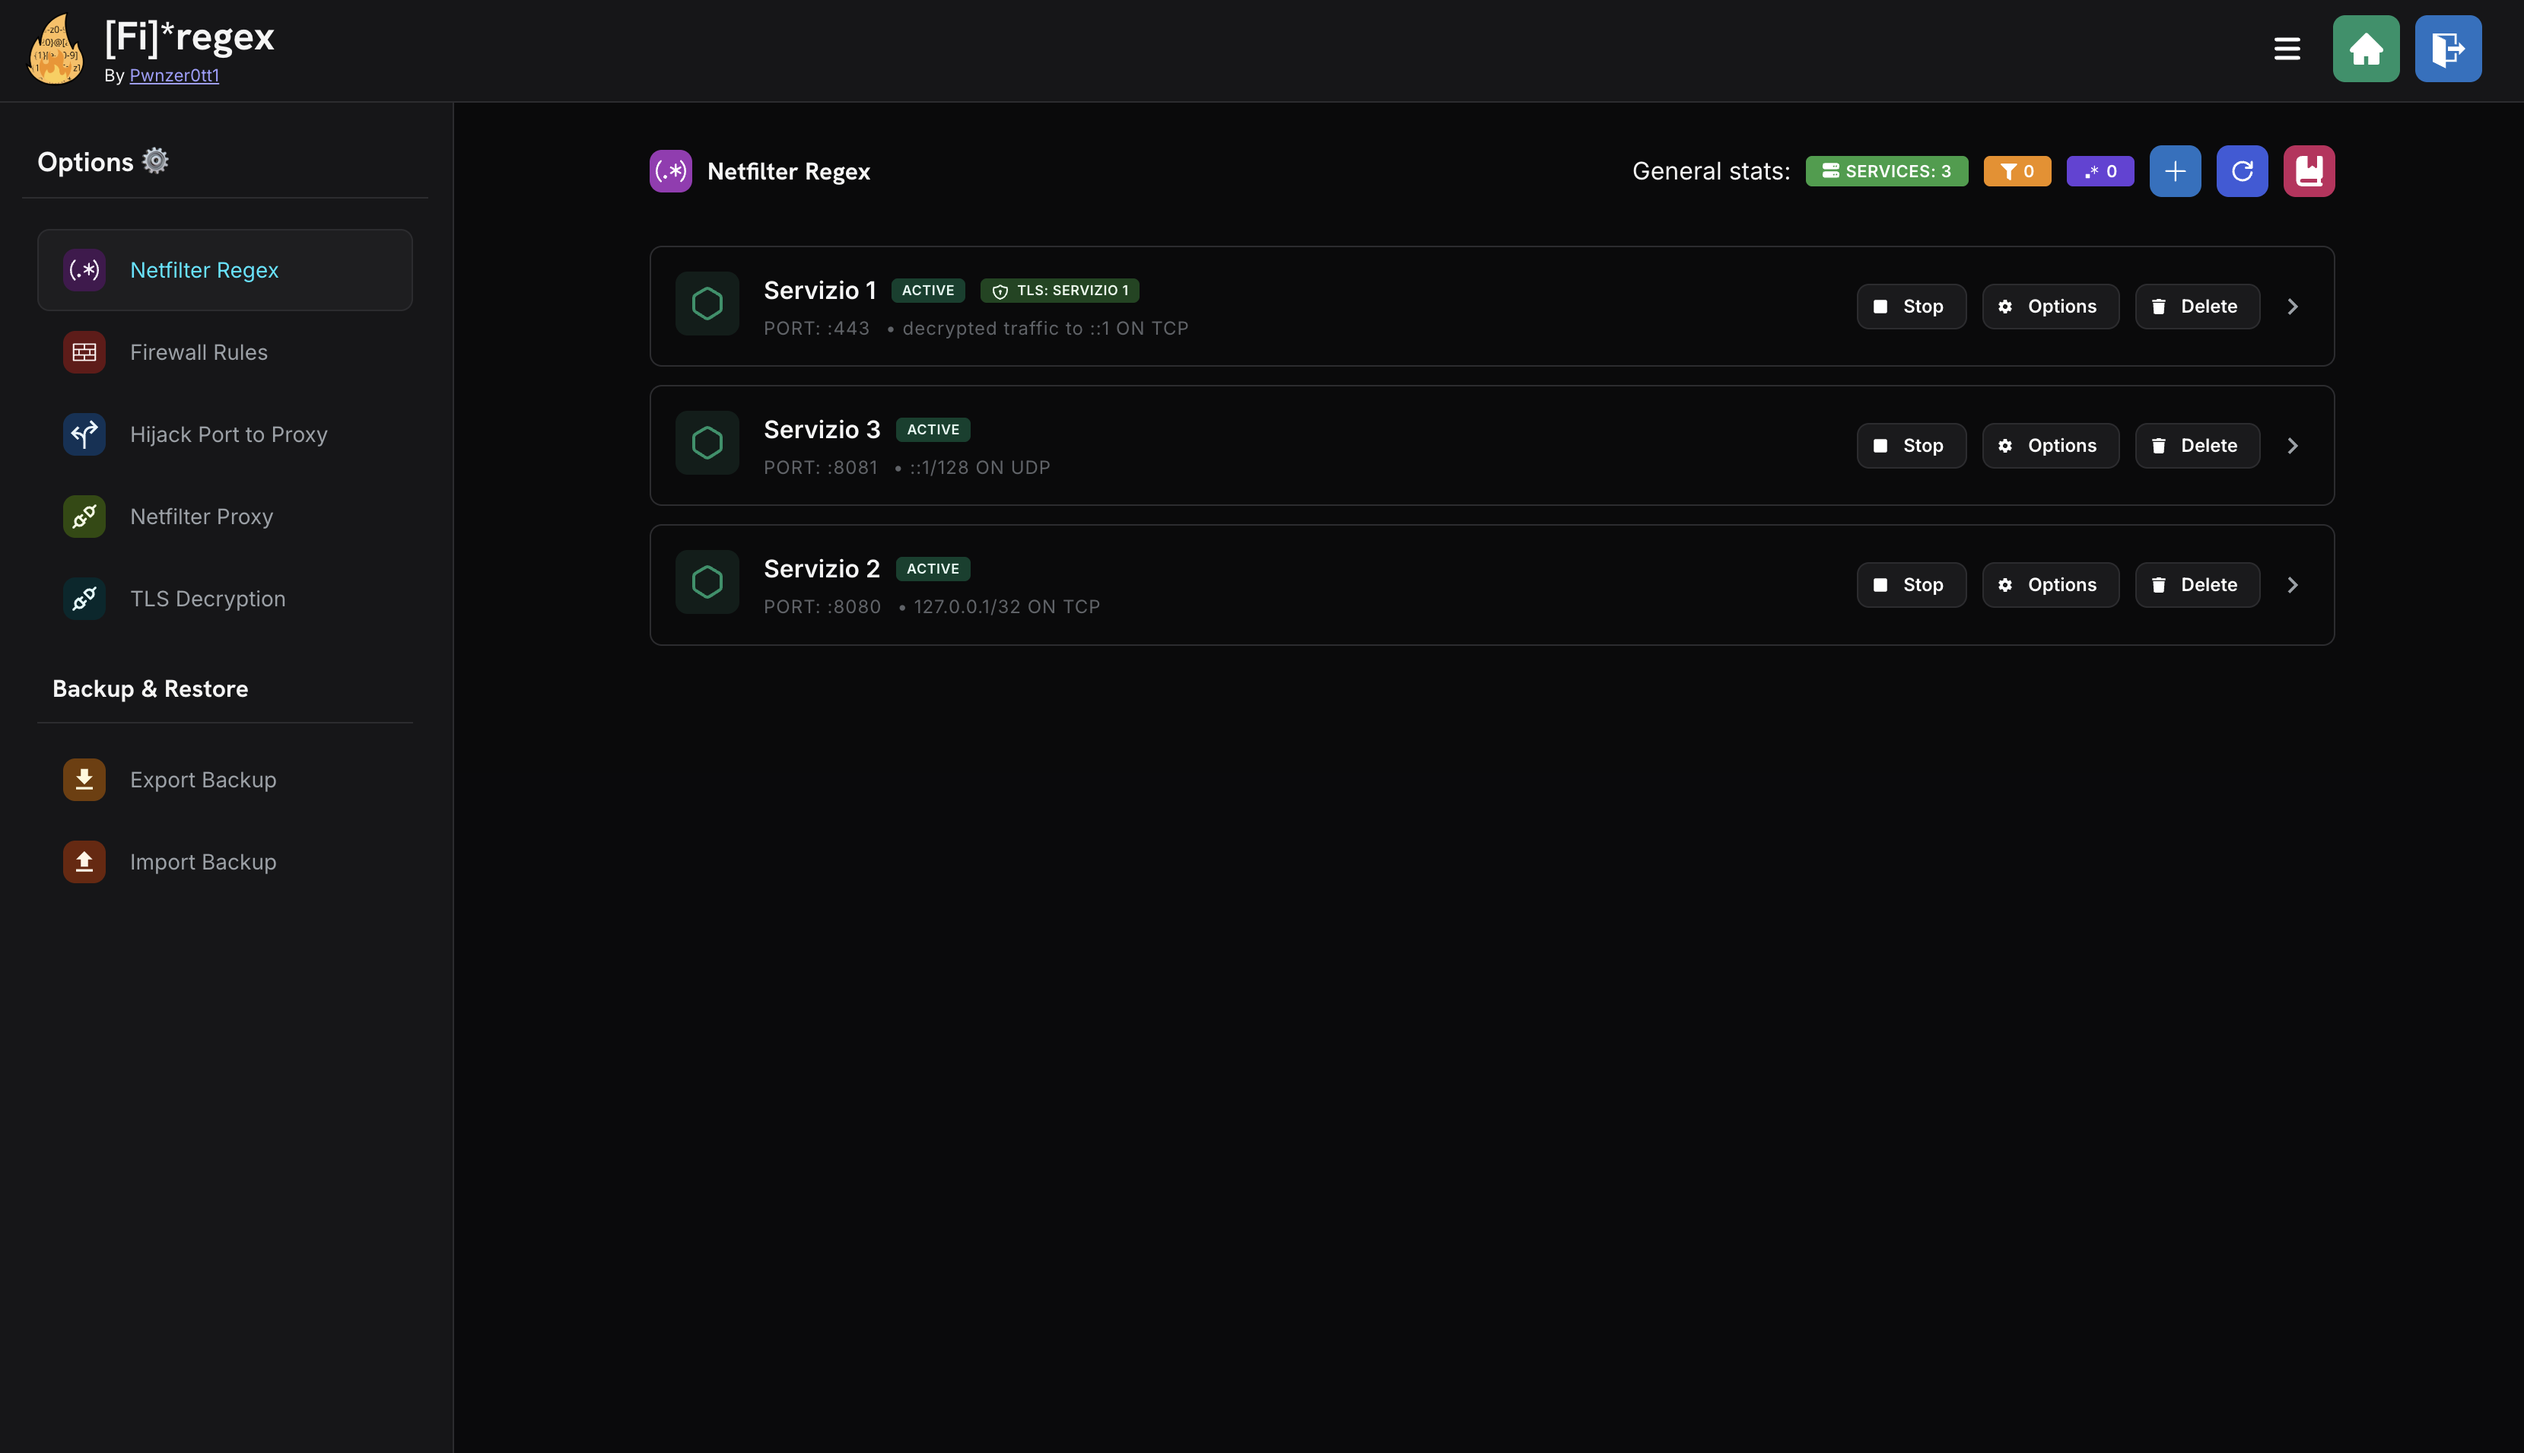
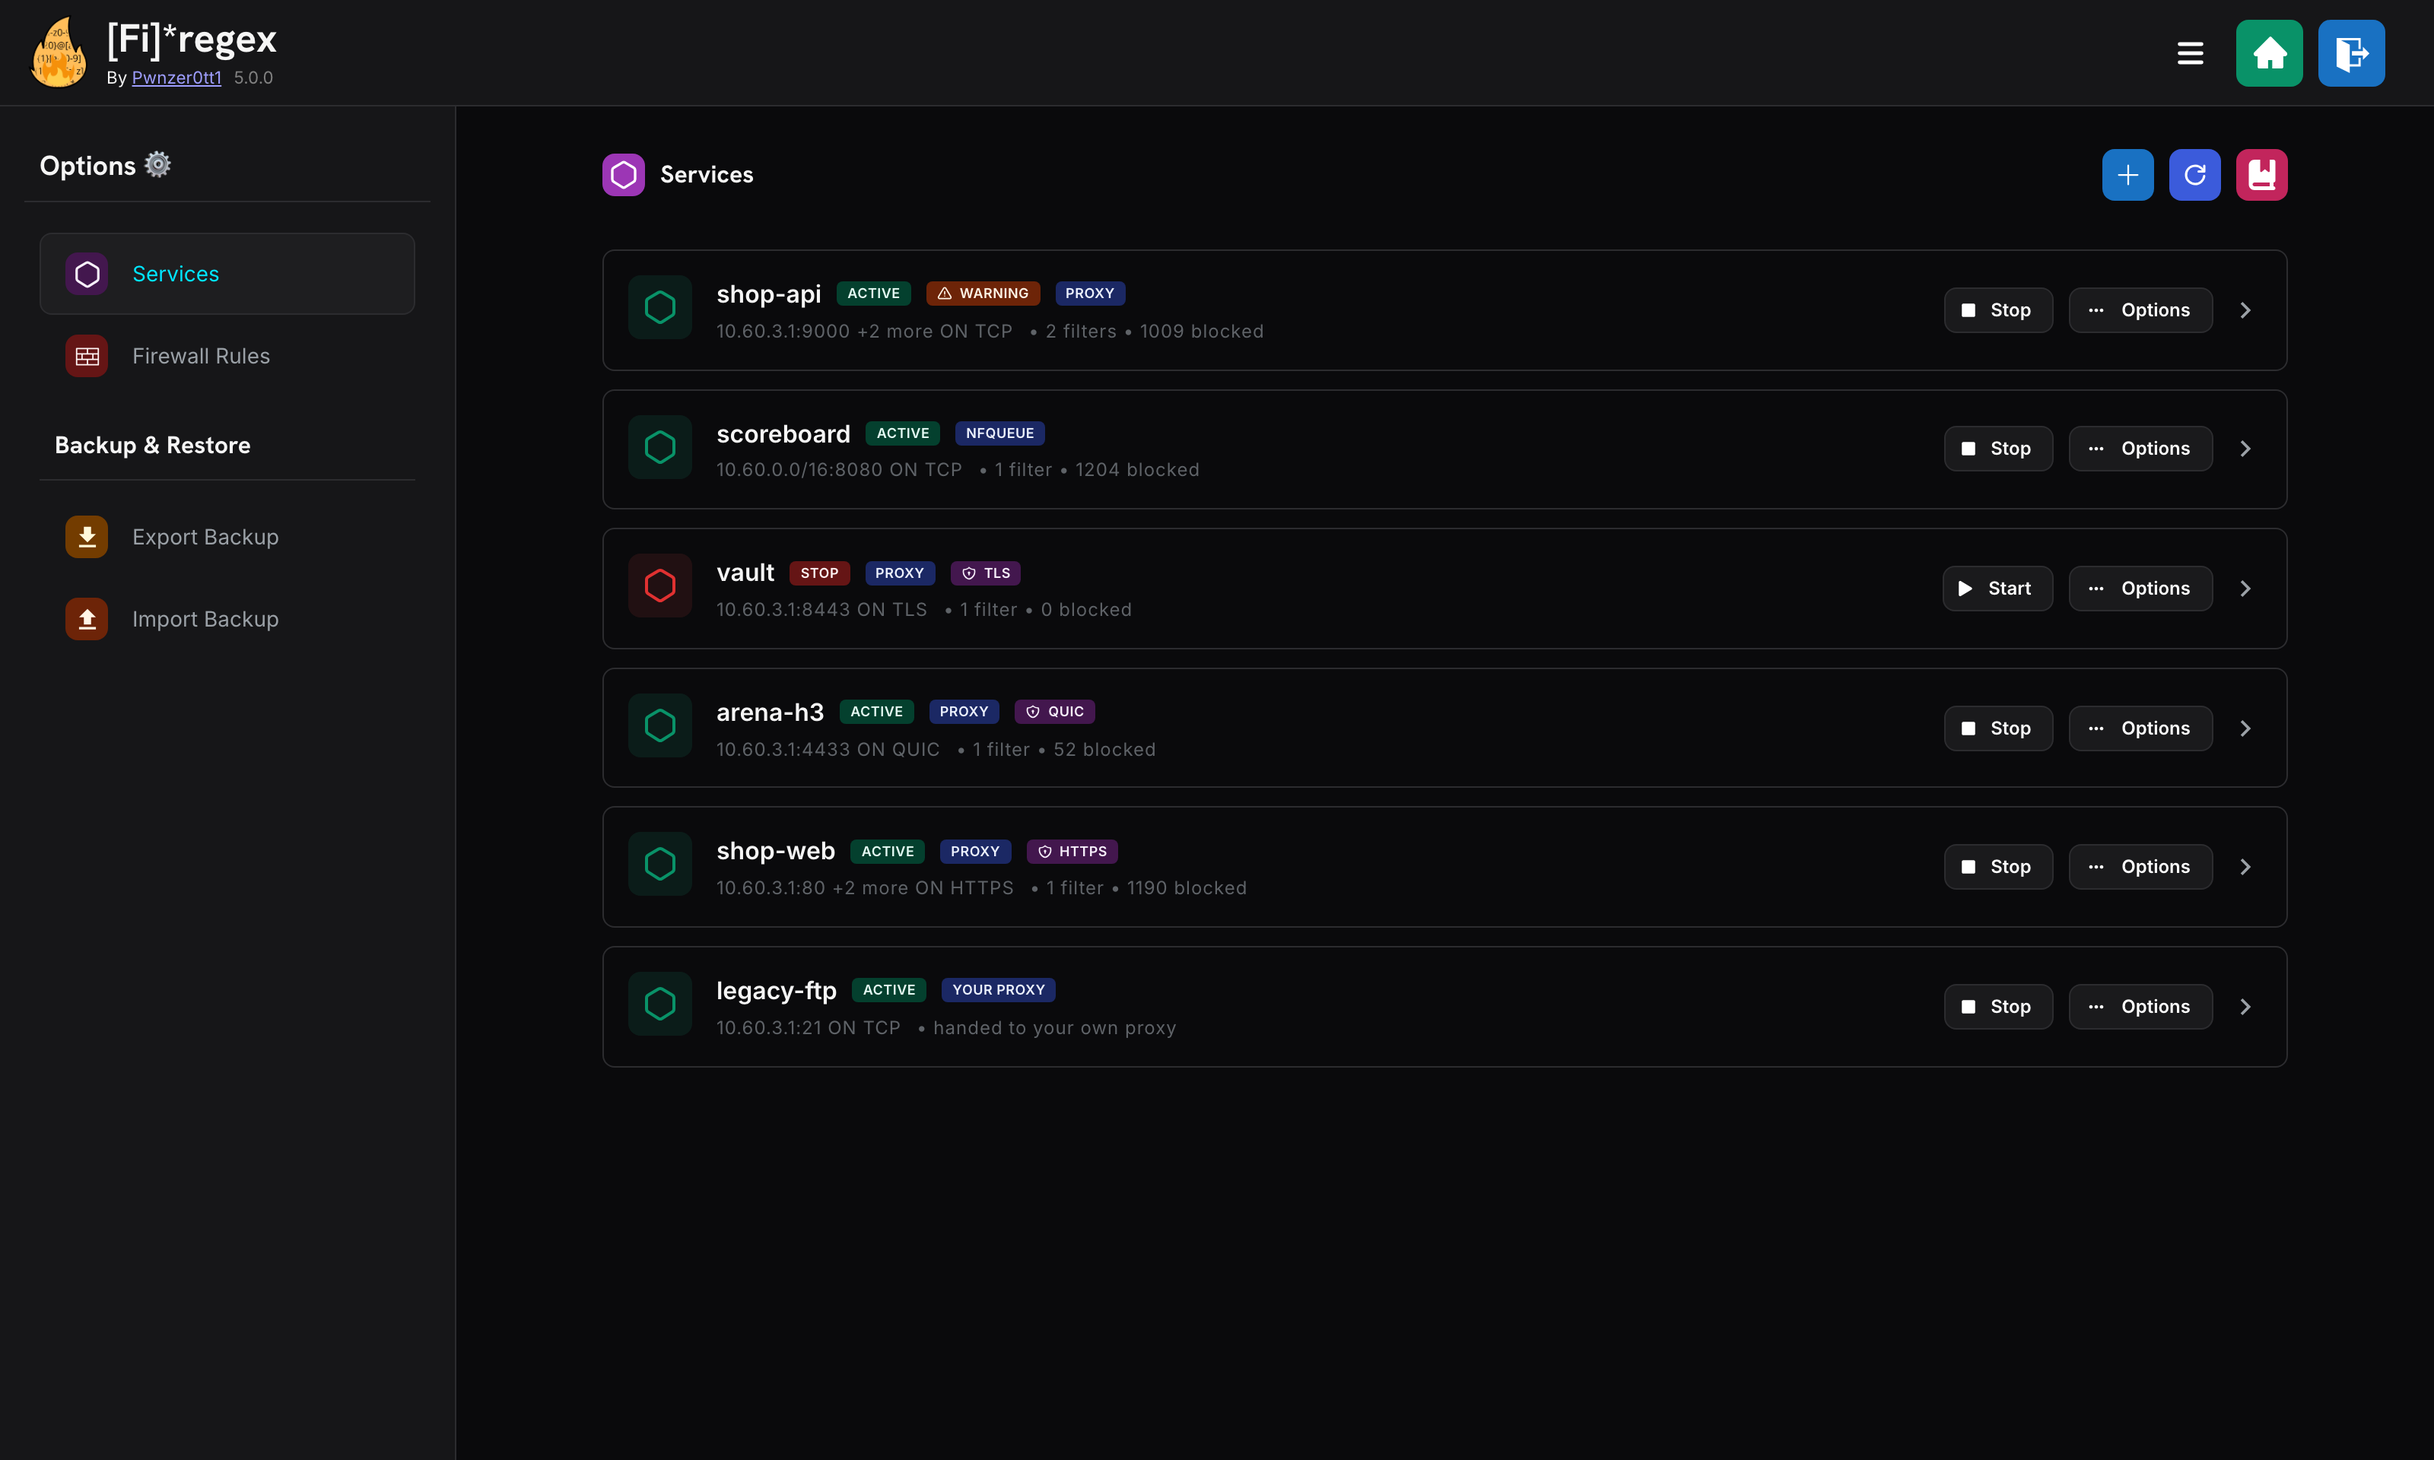
Minor fixes for release

diff --git a/frontend/src/js/demo.ts b/frontend/src/js/demo.ts
@@ -379,7 +379,7 @@ type Handler = (m: RegExpMatchArray, body: Json, query: Record<string, string>) 
 const routes: [string, RegExp, Handler][] = [
 
     // ---- global
-    ["GET", /^status$/, () => ({ status: "run", loggined: true, version: "demo", auth_disabled: false })],
+    ["GET", /^status$/, () => ({ status: "run", loggined: true, version: import.meta.env.VITE_VERSION || "demo", auth_disabled: false })],
     ["POST", /^login$/, () => ({ access_token: "demo-token", token_type: "bearer" })],
     ["POST", /^set-password$/, () => ok],
     ["POST", /^change-password$/, () => ({ ...ok, access_token: "demo-token" })],

diff --git a/docs/screenshot_demo.py b/docs/screenshot_demo.py
@@ -1,0 +1,45 @@
+#!/usr/bin/env python3
+"""
+Take the README's screenshot of the interface, from the demo build.
+
+Usage:
+    python3 docs/screenshot_demo.py [url] [output_path]
+
+`url` defaults to the published demo; the release workflow builds the demo from the
+release being published and serves it locally instead, so the picture is of that version
+and not of whatever the Pages deploy last finished (built with `VITE_VERSION=<tag>`, the
+header then names it instead of saying "demo"). Needs Playwright with chromium
+(`pip install playwright && playwright install --with-deps chromium`).
+
+The viewport is fixed, so the image keeps its size from one release to the next however
+much the demo's seed data happens to render.
+"""
+import sys
+from pathlib import Path
+
+from playwright.sync_api import sync_playwright
+
+URL = sys.argv[1] if len(sys.argv) > 1 else "https://demo.firegex.pwnzer0tt1.it/"
+OUTPUT = Path(sys.argv[2]) if len(sys.argv) > 2 else Path(__file__).parent / "Firegex_Screenshot.png"
+VIEWPORT = {"width": 1600, "height": 960}
+
+
+def main():
+    with sync_playwright() as p:
+        browser = p.chromium.launch()
+        page = browser.new_page(viewport=VIEWPORT, device_scale_factor=2, color_scheme="dark")
+        page.goto(URL, wait_until="networkidle")
+        # The demo greets its visitor with a toast saying it is one, which is not part of
+        # the interface being pictured.
+        page.add_style_tag(content=".mantine-Notifications-root { display: none !important; }")
+        # The list fills in from the demo's in-memory backend after the page has loaded;
+        # a seeded service's name is what says it has.
+        page.wait_for_selector("text=shop-api", timeout=15000)
+        page.wait_for_timeout(1000)
+        page.screenshot(path=str(OUTPUT))
+        browser.close()
+    print(f"Saved {OUTPUT} ({VIEWPORT['width']}x{VIEWPORT['height']} @2x)")
+
+
+if __name__ == "__main__":
+    main()

diff --git a/fgex-lib/setup.py b/fgex-lib/setup.py
@@ -23,32 +23,12 @@ LLHTTP = setuptools.Extension(
     extra_compile_args=["-O3"],
 )
 
-with open("README.md", "r", encoding="utf-8") as fh:
-    long_description = fh.read()
-
-with open('requirements.txt', 'r', encoding='utf-8') as f:
-    required = [ele.strip() for ele in f.read().splitlines() if not ele.strip().startswith("#") and ele.strip() != ""]
-
+# Everything else about the package is in pyproject.toml. The version stays here because
+# the release workflow writes the tag over the placeholder, which is not a valid version
+# until it has.
 VERSION = "{{VERSION_PLACEHOLDER}}"
 
 setuptools.setup(
-    name="firegex",
-    version= VERSION if "{" not in VERSION else "0.0.0", #uv pip install -U . --no-cache-dir for testing
-    author="Pwnzer0tt1",
-    author_email="pwnzer0tt1@poliba.it",
-    scripts=["fgex"],
-    py_modules=["firegex"],
-    install_requires=required,
-    include_package_data=True,
-    description="Firegex client",
-    long_description=long_description,
-    long_description_content_type="text/markdown",
-    url="https://github.com/pwnzer0tt1/firegex",
-    packages=setuptools.find_packages(),
+    version=VERSION if "{" not in VERSION else "0.0.0", #uv pip install -U . --no-cache-dir for testing
     ext_modules=[LLHTTP],
-    classifiers=[
-        "Programming Language :: Python :: 3",
-        "License :: OSI Approved :: GNU General Public License v3 or later (GPLv3+)",
-    ],
-    python_requires='>=3.10',
 )

diff --git a/tests/integration/test_service_lifecycle.py b/tests/integration/test_service_lifecycle.py
@@ -110,7 +110,10 @@ def test_stopping_a_proxied_service_does_not_cut_its_connections(api, protected,
             "a stopped service went on filtering the connections it had"
         time.sleep(3)
         assert _held_open(server, b"a while later") == b"a while later"
-        assert _log_says(api, service_id, "carry on unfiltered"), \
+        # The line waits for a STATS report taken after the stop, which the engine sends
+        # every two seconds and drops while the backend is behind — under a full suite on
+        # a busy machine, ten seconds was once not enough to see one.
+        assert _log_says(api, service_id, "carry on unfiltered", wait=30), \
             "the log did not say connections were still being carried"
     finally:
         server.close_client()

diff --git a/AGENTS.md b/AGENTS.md
@@ -66,7 +66,7 @@ there — a file only processed for *site* directories, so putting that path in 
 imports pytest and still leaves `pyworker.py --check` unable to find the filter library.
 The script installs into the environment it is running in, which resolves all of it. Two
 things that trip a root run were found by trying it, and both are fixed rather than worked
-around: `tests/requirements.txt` was missing `fastapi` (see the file for why one unit test
+around: the `test` group in `tests/pyproject.toml` was missing `fastapi` (see the file for why one unit test
 needs the backend's own dependency, and why its absence stops the *whole* run rather than
 one file), and `./run_tests.sh unit` — advertised in the script's own help — took `unit` as
 a **password** and ran everything against an instance it could not authenticate to.
@@ -108,7 +108,7 @@ Mount `backend/`, not `backend/proxysrc/`: `tests/pyworker.rs` launches `../modu
 
 The suite runs against an instance with authentication turned off as well: `login()` reads a 403 there as "there is nothing to log in to" rather than as a failure, since every request is already allowed. `integration/test_auth.py` is the exception and skips itself — it is about passwords, and those endpoints answer 403 in that mode by design. Note `BearerSession.post` copies the header dict rather than writing into it: the form `Content-Type` belongs to the login request alone, and it used to stick, which went unnoticed only because a successful login replaces the whole dict a moment later.
 
-CI (`.github/workflows/release.yml`) runs **only on `release: published`**, not on pushes or pull requests — nothing validates a PR automatically. Two jobs gate every publish job below them, both on `ubuntu-latest` and `ubuntu-24.04-arm`: `run_tests` does `python3 run.py start -P testpassword` then `cd tests && sudo ./run_tests.sh`, and `engine_tests` runs the Rust suite (`cargo test` in `proxysrc`) in the Dockerfile's `enginetest` stage — the compiler stage plus the filter library the pyworker tests start. That suite was not run before a release at all, though much of what it covers (HTTP/2, HTTP/3 and QUIC termination, the worker's framing, the UDP relay) no integration test reaches. `enginetest` sits **before** `final` on purpose: a build with no target, which is what compose does, takes the last stage. The tests' dependencies are pure python; `iperf3`, matplotlib and numpy belong to `bench/requirements.txt` and CI installs none of them.
+CI (`.github/workflows/release.yml`) runs **only on `release: published`**, not on pushes or pull requests — nothing validates a PR automatically. Two jobs gate every publish job below them, both on `ubuntu-latest` and `ubuntu-24.04-arm`: `run_tests` does `python3 run.py start -P testpassword` then `cd tests && sudo ./run_tests.sh`, and `engine_tests` runs the Rust suite (`cargo test` in `proxysrc`) in the Dockerfile's `enginetest` stage — the compiler stage plus the filter library the pyworker tests start. That suite was not run before a release at all, though much of what it covers (HTTP/2, HTTP/3 and QUIC termination, the worker's framing, the UDP relay) no integration test reaches. `enginetest` sits **before** `final` on purpose: a build with no target, which is what compose does, takes the last stage. The tests' dependencies are pure python; `iperf3`, matplotlib and numpy belong to the `bench` group of `tests/pyproject.toml` and CI installs none of them.
 
 ## Architecture
 

diff --git a/tests/bench/README.md b/tests/bench/README.md
@@ -12,9 +12,9 @@ most of this page is about. `pytest` does not collect this directory.
 | `stress_test_history.py` | a soak test for `HttpHistory` under load |
 | `results_plotter.py` | redraws the SVGs in `results/` from the CSVs beside them |
 
-These need more than the tests do — `pip3 install -r requirements.txt` here, on top of
-the one a directory up, and `iperf3` itself installed as a package because the python
-binding links against it.
+These need more than the tests do — the `bench` group of `../pyproject.toml`
+(`pip3 install --group ../pyproject.toml:bench` from here, pip 25.1 or later), and `iperf3`
+itself installed as a package because the python binding links against it.
 
 # Running a benchmark
 
